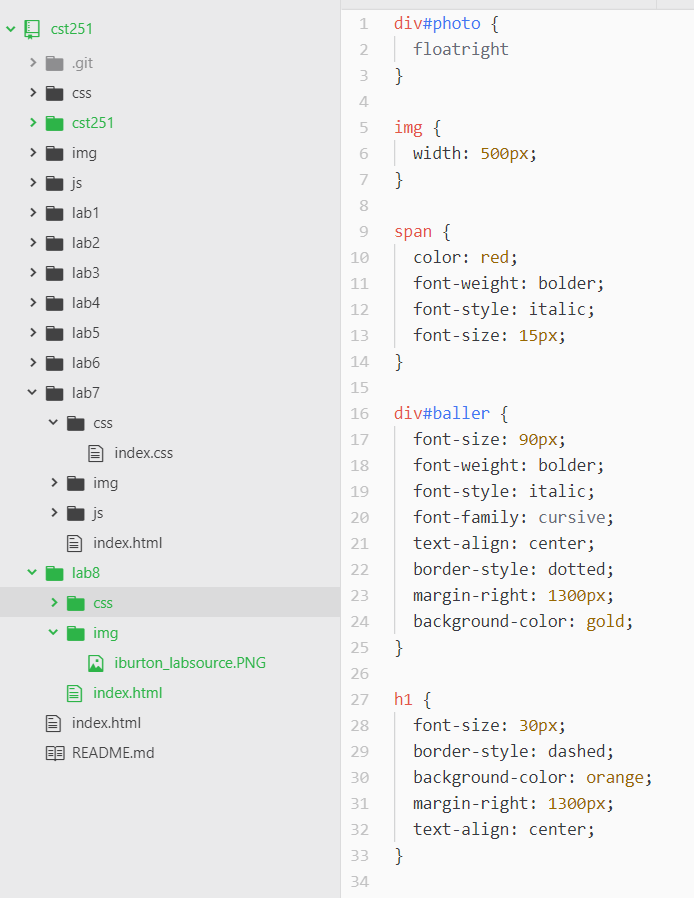
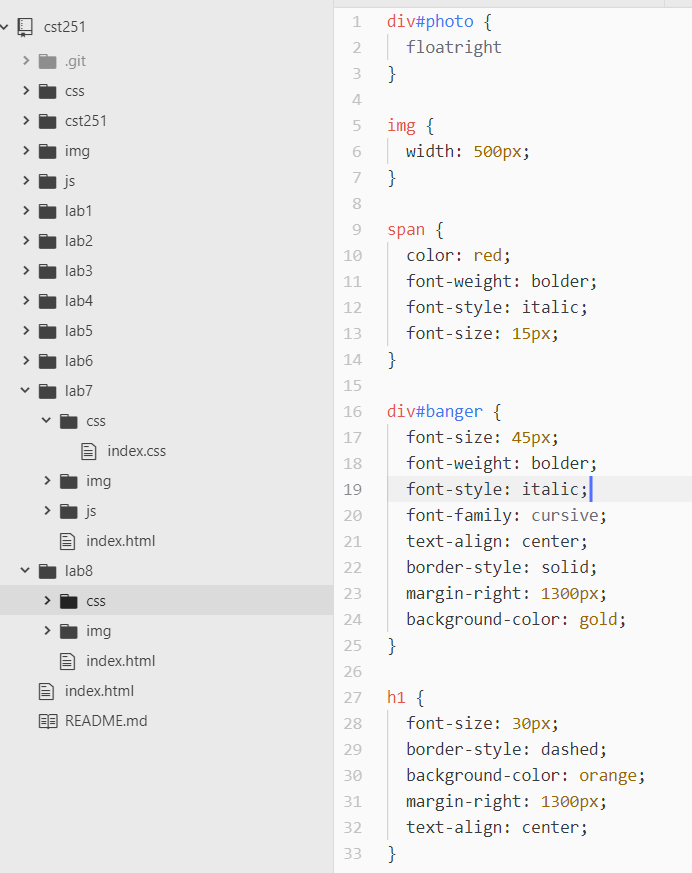
update8

diff --git a/lab8/index.html b/lab8/index.html
@@ -15,7 +15,7 @@
     <h1>Lab 8: CSS Selectors</h1>
     <p>The purpsoe of this lab was to experiment with CSS Selectors.</p>
     <h2>Challenges</h2>
-    <p>The only challenges I had with this lab was finishing it on time becasue I was out of town for the weekend. <span> Thanks to my brother Jermey he helped me out with figuring out which images to add.</p>
+    <p>The only challenges I had with this lab was finishing it on time becasue I was out of town for the weekend. <br> <span> Thanks to my brother Jermey he helped me out with figuring out which images to add.</p>
     <h2>Results</h2>
     <p>After learning and experimenting with CSS Selectors, my page is finally done and certified. <div id="banger">'drippy'</div> <br>
 
